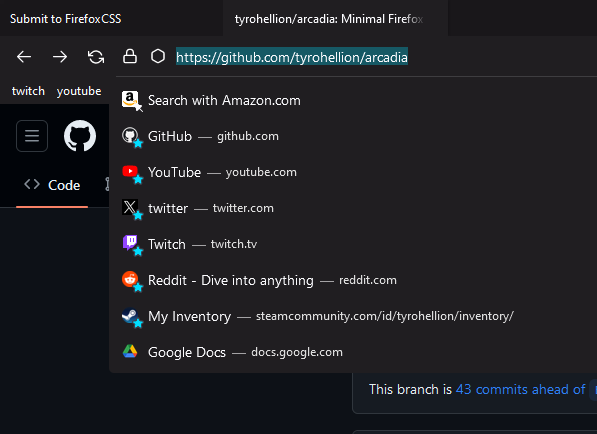
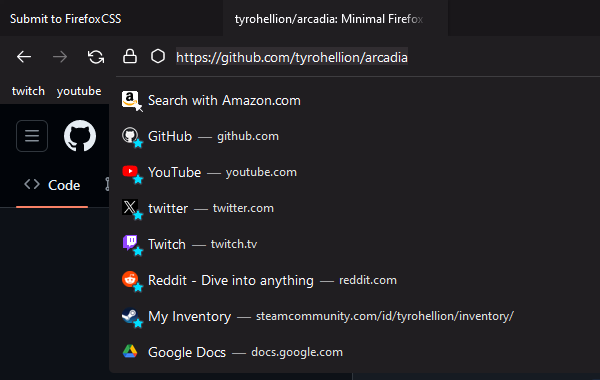
New URL highlight color
-also updated README

diff --git a/chrome/userChrome.css b/chrome/userChrome.css
@@ -259,6 +259,10 @@ REMOVED ELEMENTS
 }
 */
 
+#urlbar-input::selection{
+  background-color: #312D31 !important;
+}
+
 #blocked-permissions-container {
   display: none !important;
 }

diff --git a/README.md b/README.md
@@ -1,13 +1,15 @@
-## Previews
+## Preview
 ![](https://github.com/tyrohellion/arcadia/blob/master/1.png)
+## Hovercard
 ![](https://github.com/tyrohellion/arcadia/blob/master/hovercard.png)
+## Urlbar view
 ![](https://github.com/tyrohellion/arcadia/blob/master/2.png)
 
 ## Installation
 
 1. Enter `about:profiles`
 2. Press `Open Folder` under Root Directory
-3. Move the `chrome` folder and `user.js` file into the directory. (the user.js is optional)
+3. Move the `chrome` folder and `user.js` file into the directory. `(the user.js is optional)`
 4. Download the [hover card firefox extension](https://github.com/easonwong-de/Tab-Preview-On-Hover)
 5. Note: This theme `requires` this extension to function properly
 
